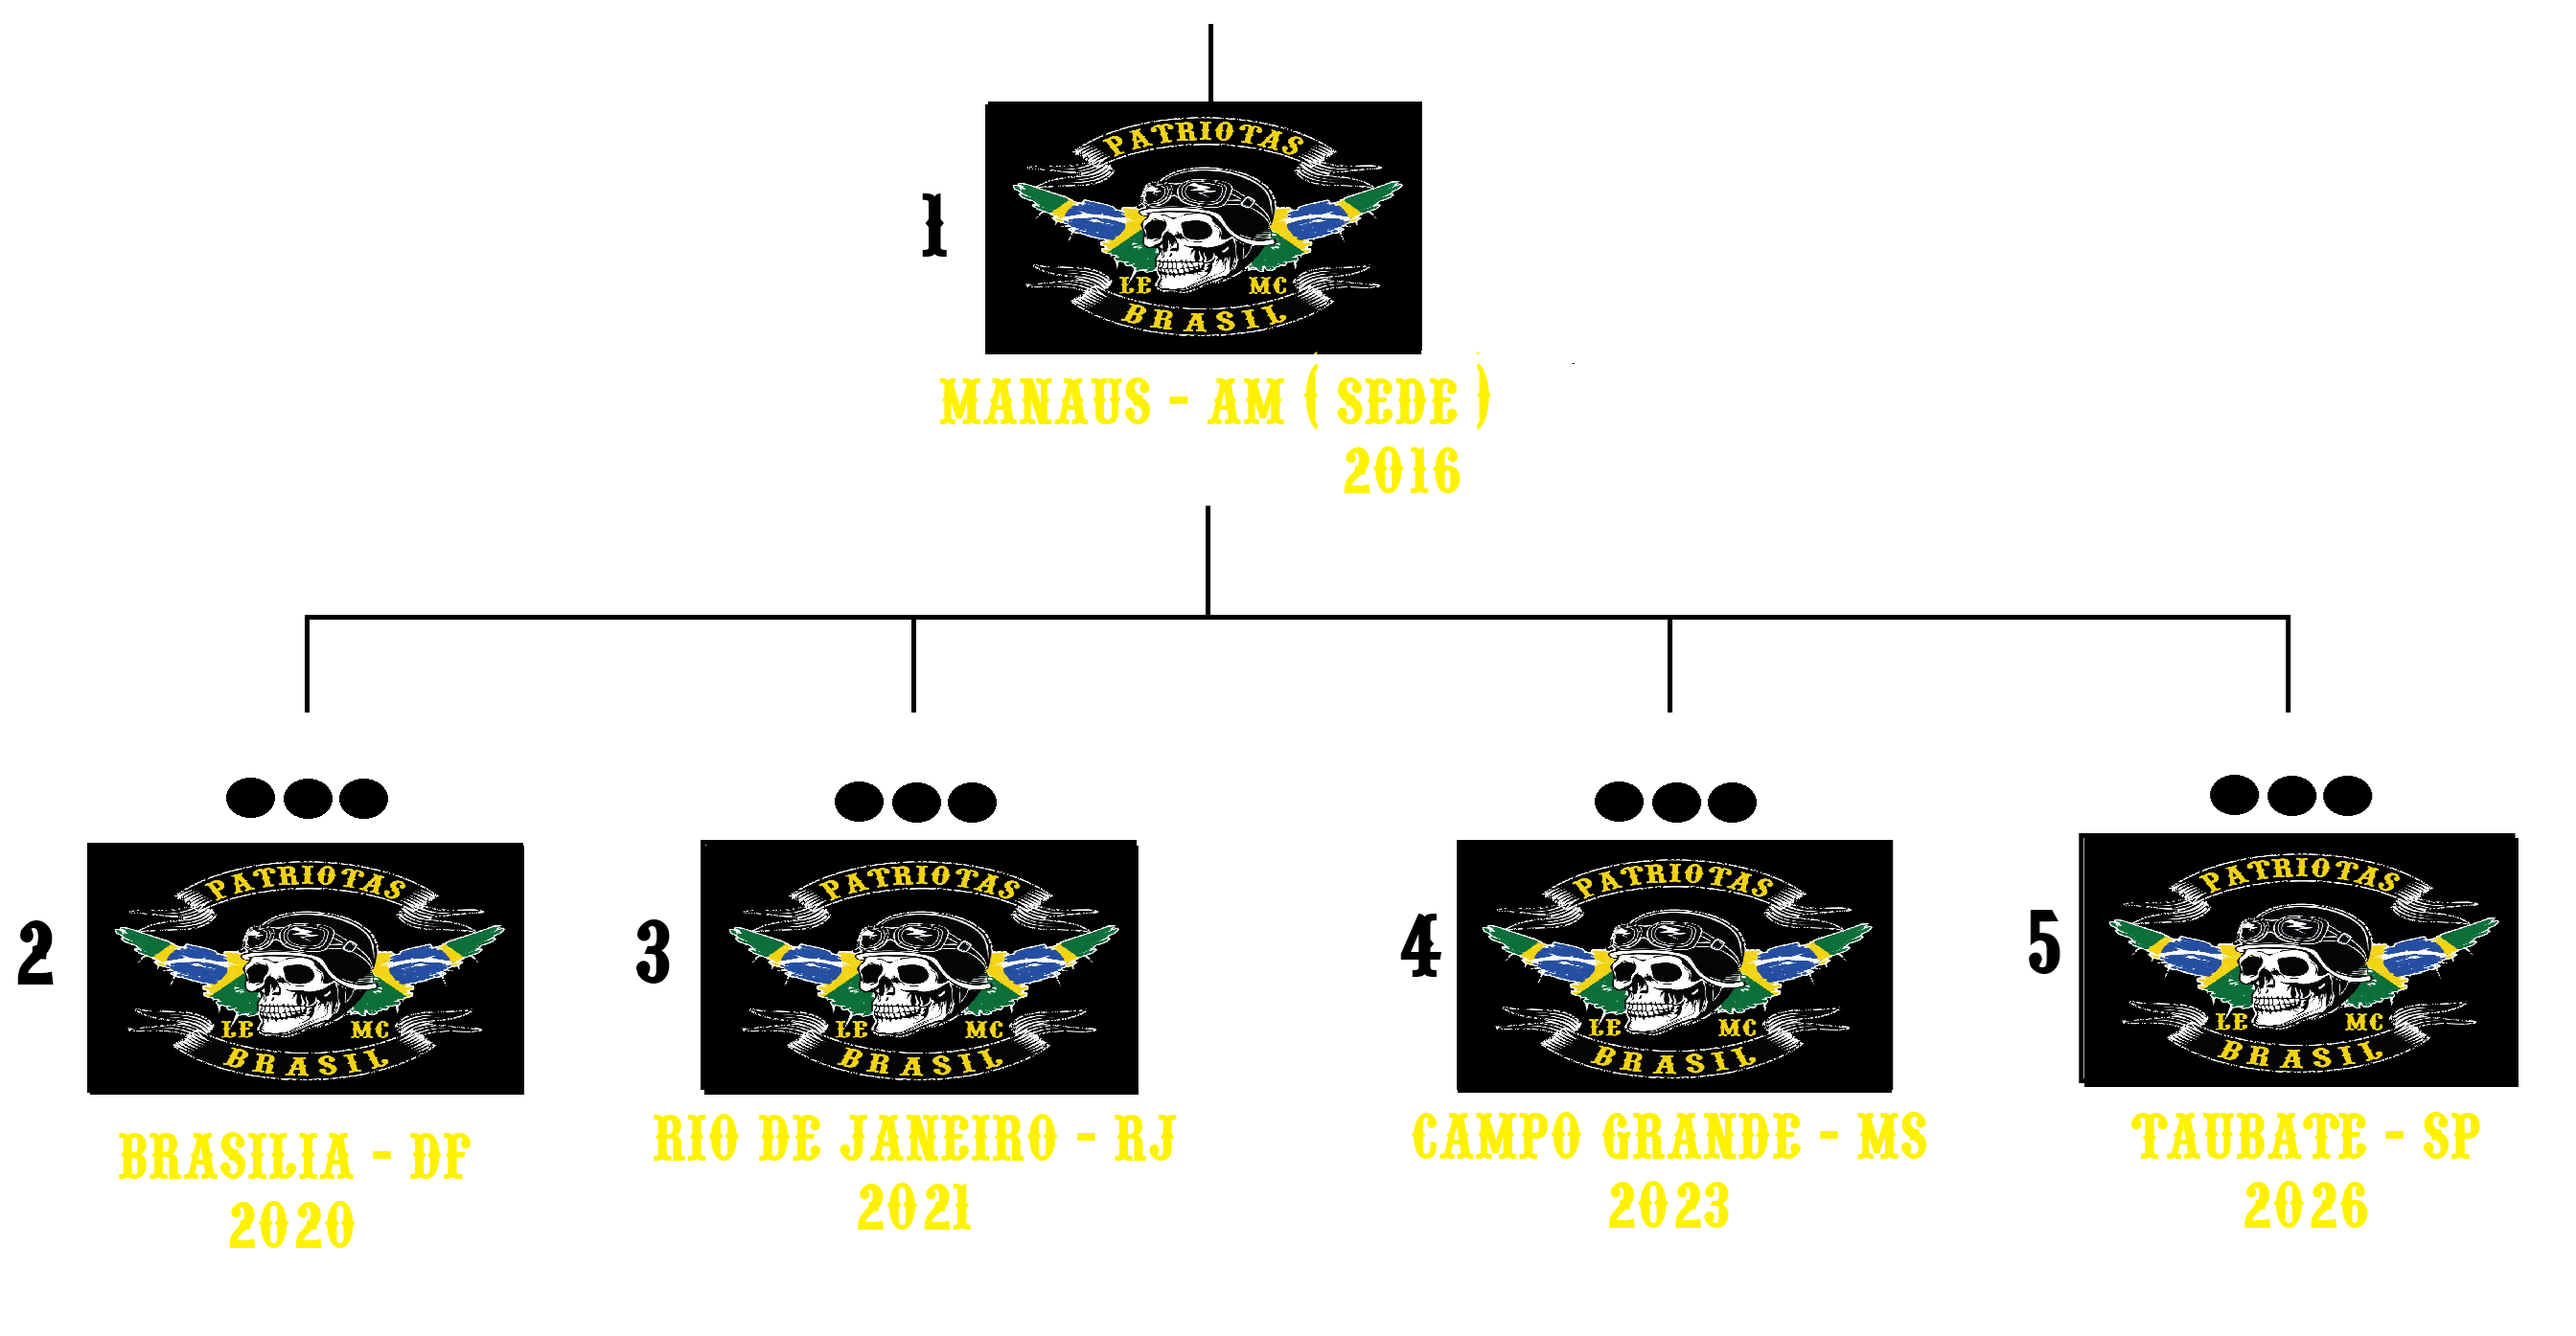
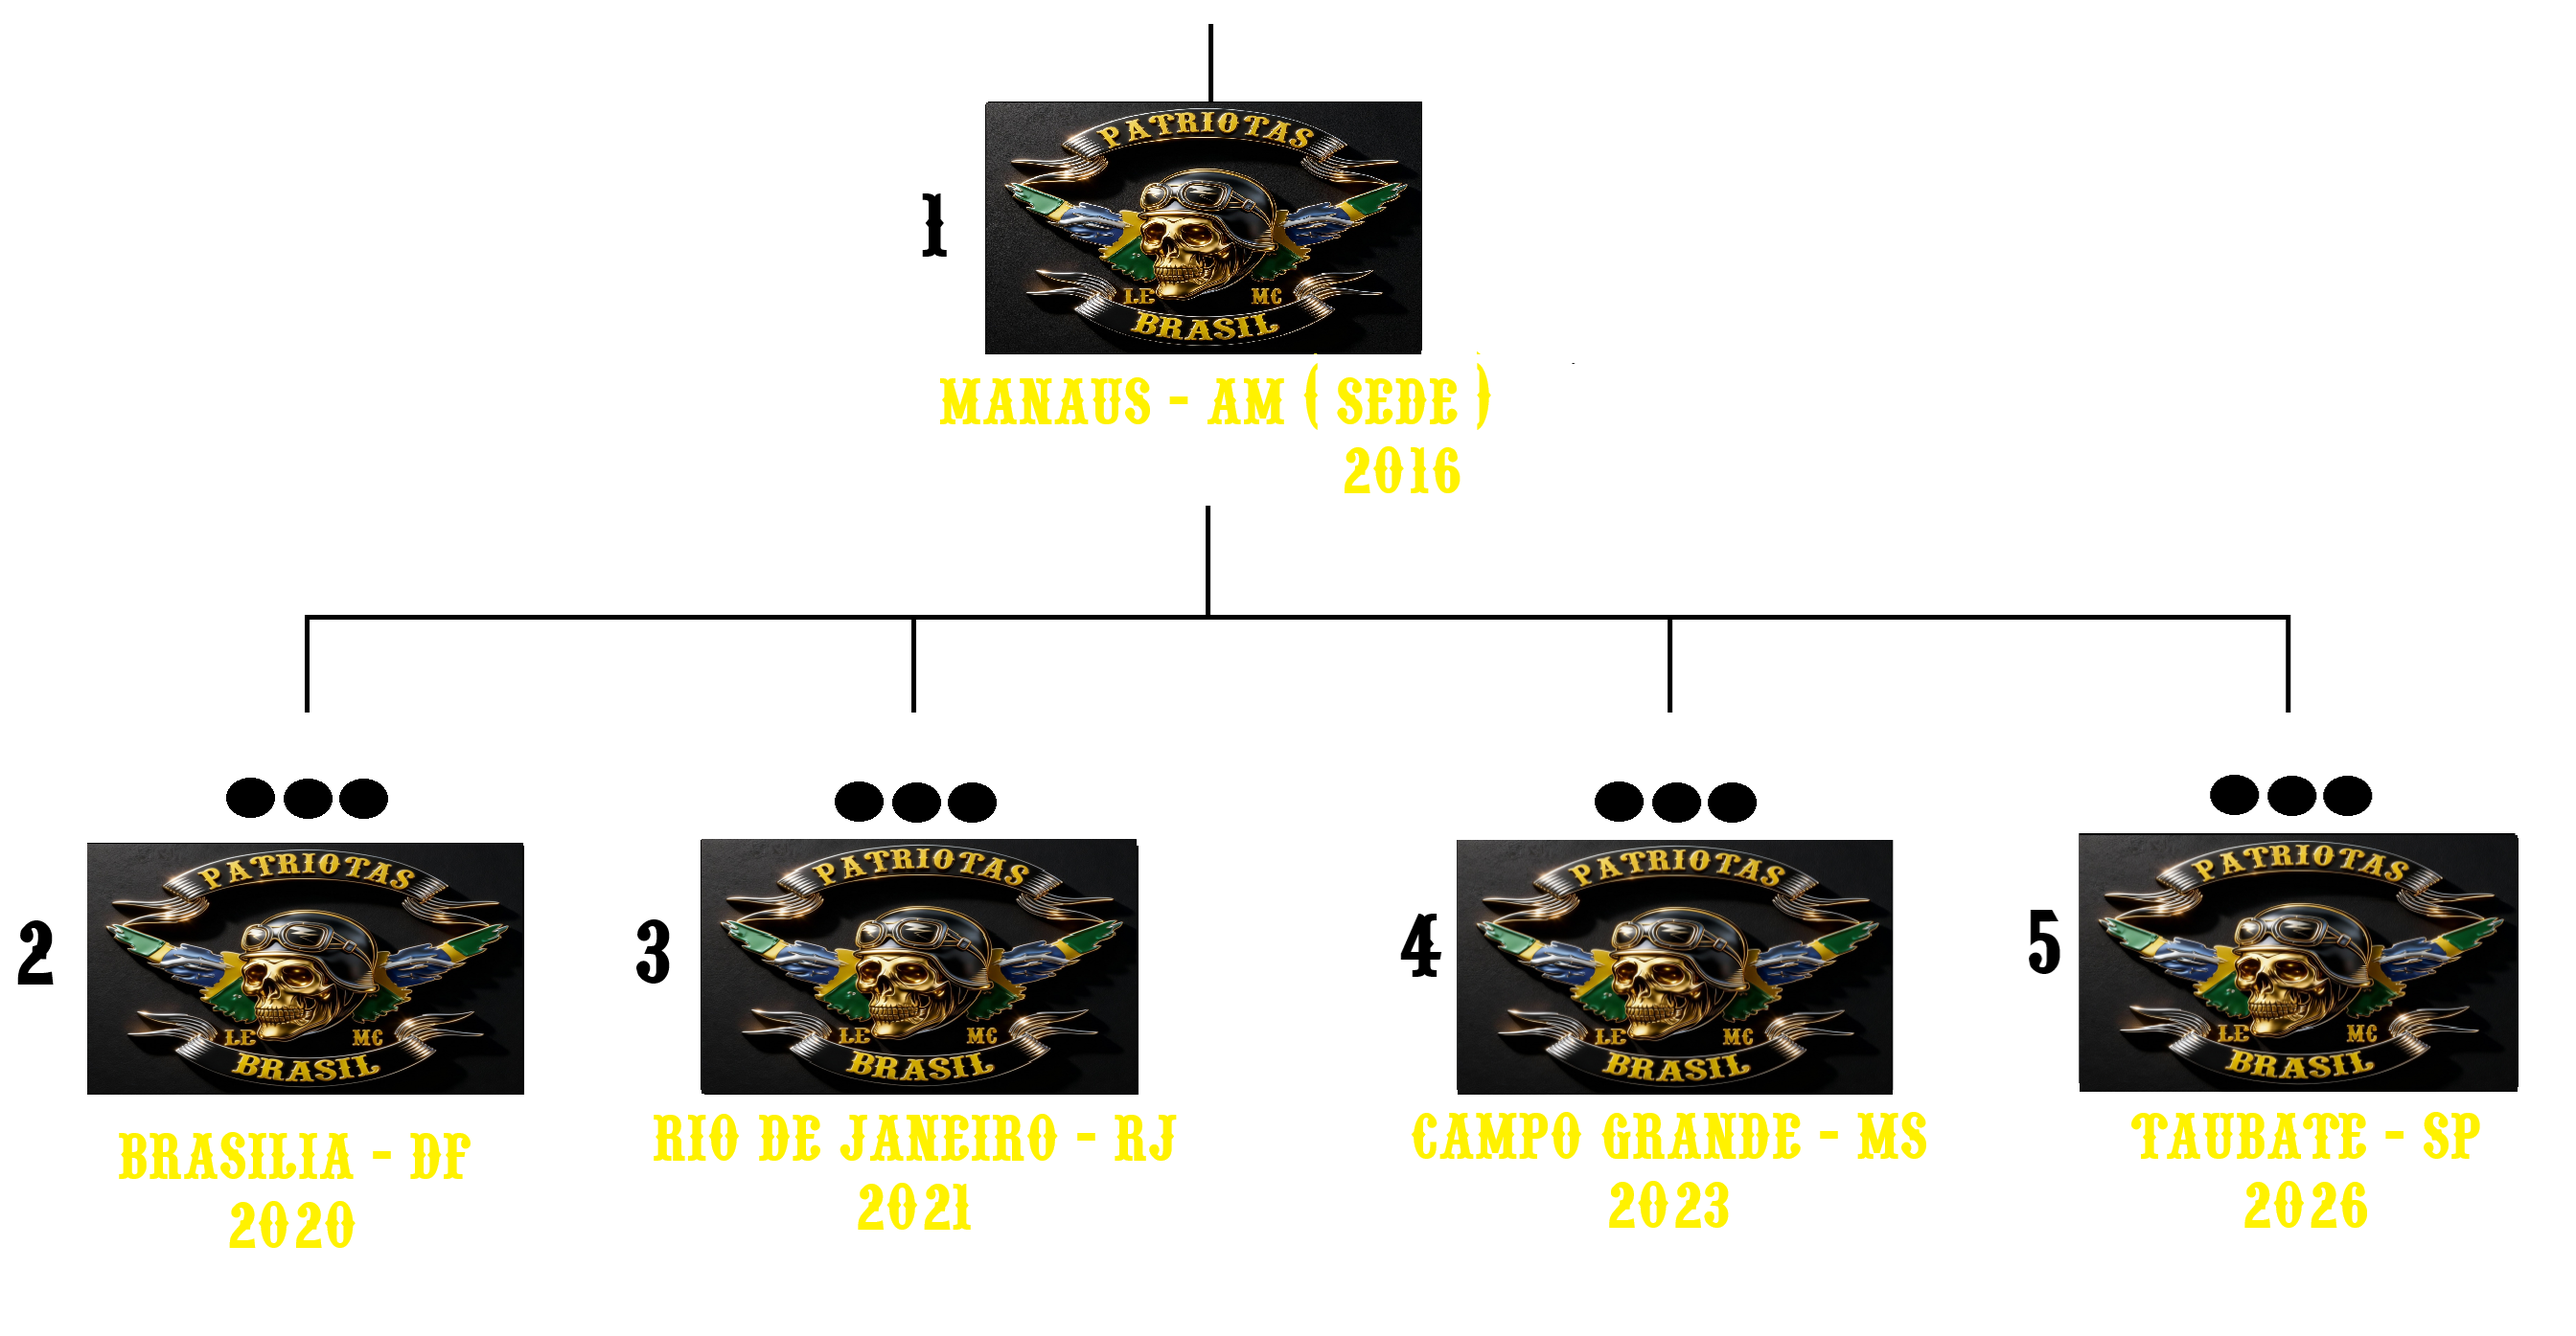
Troca fonte do navbar e atualiza imagens
- Adiciona classe CSS f-sans (fonte Sancreek)
- Navbar PATRIOTAS: fonte trocada de f-mad para f-sans
- Imagens atualizadas: brasao_mc_df.png e organograma patriotas.png

diff --git a/src/components/PatriotasSite.jsx b/src/components/PatriotasSite.jsx
@@ -150,6 +150,7 @@ export default function PatriotasSite() {
         .f-rye    { font-family: 'Rye', serif; }
         .f-stencil{ font-family: 'Special Elite', monospace; }
         .f-body   { font-family: 'Oswald', sans-serif; }
+        .f-sans   { font-family: 'Sancreek', serif; }
 
         /* ── COURO / TEXTURA ── */
         .leather-bg {
@@ -286,7 +287,7 @@ export default function PatriotasSite() {
               <img src={BRASAO} alt="Patriotas MC" style={{ width:"160%", objectFit:"contain" }} />
             </div>
             <div className="hidden sm:block">
-              <div className="f-mad leading-none amber" style={{ fontSize: 28, letterSpacing: "0.05em" }}>PATRIOTAS</div>
+              <div className="f-sans leading-none amber" style={{ fontSize: 28, letterSpacing: "0.05em" }}>PATRIOTAS</div>
               <div className="f-stencil olive" style={{ fontSize: 12, letterSpacing: "0.4em" }}>BRASIL</div>
               <div className="f-stencil olive" style={{ fontSize: 12, letterSpacing: "0.4em" }}>LE · MC</div>
             </div>
